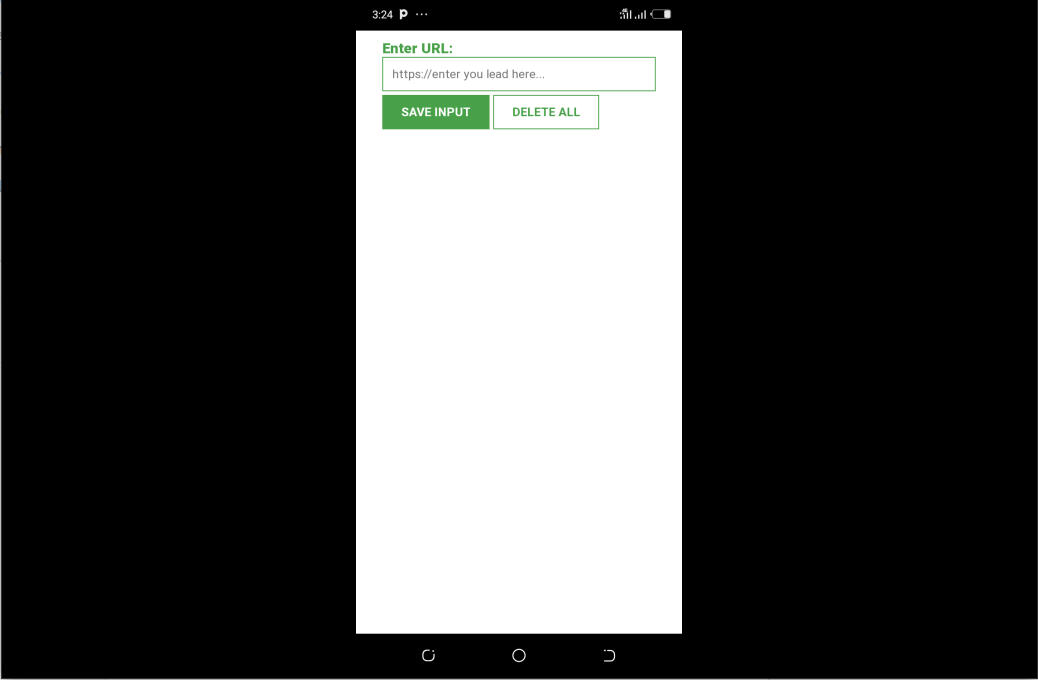
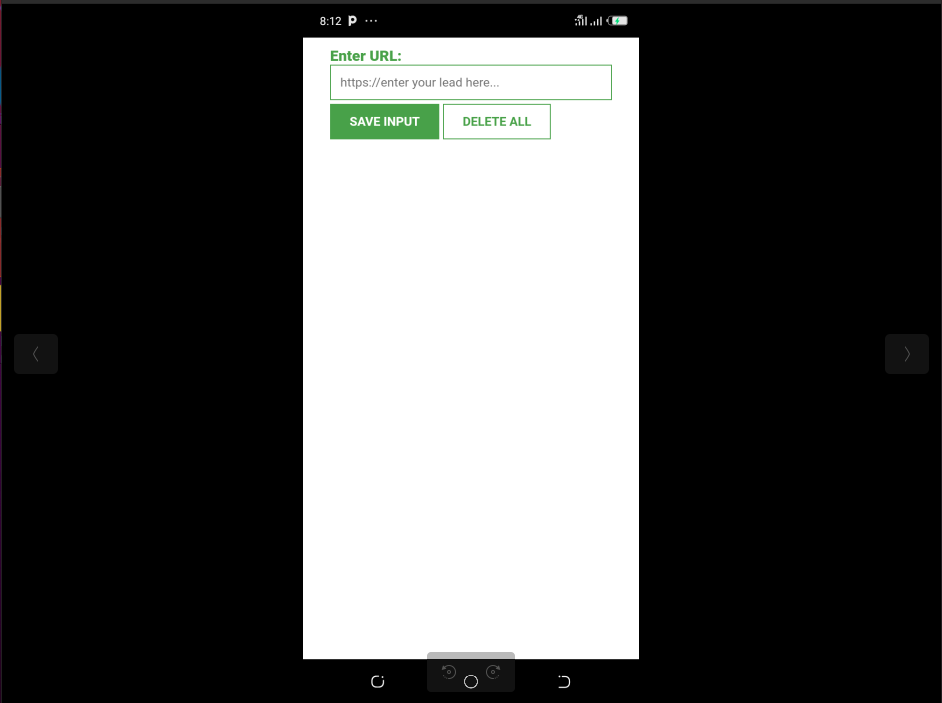
Changed Tenzies, Calculator and Etch A Sketch images

Changed region(s): [[0.0, 0.0, 1.0, 1.0]]

diff --git a/index.html b/index.html
@@ -55,23 +55,23 @@
           />
           <p class="project-title">
             <span class="code">&lt;</span>
-            Chrome Extension Mobile App
+             Mobile App
             <span class="code">&#47;&gt;</span>
           </p>
         </a>
         <a
-          href="https://marahsang.github.io/tenzies-app/"
+          href="https://marahsang.github.io/odin-lpage"
           target="_blank"
           class="project project-tile"
         >
           <img
             class="project-image"
-            src="./images/tenzies.png"
+            src="./images/odin land page.png"
             alt="project"
           />
           <p class="project-title">
             <span class="code">&lt;</span>
-            Tenzies App
+            Landing Page
             <span class="code">&#47;&gt;</span>
           </p>
         </a>
@@ -108,34 +108,34 @@
           </p>
         </a>
         <a
-          href="https://marahsang.github.io/Calculator_Odin_Project/"
+          href="https://marahsang.github.io/Odin-Grid-Project"
           target="_blank"
           class="project project-tile"
         >
           <img
             class="project-image"
-            src="./images/calculator_app.png"
+            src="./images/dashboard.png"
             alt="project"
           />
           <p class="project-title">
             <span class="code">&lt;</span>
-            Calculator
+            Dashboard
             <span class="code">&#47;&gt;</span>
           </p>
         </a>
         <a
-          href="https://marahsang.github.io/Etch-a-Sketch/"
+          href="https://marahsang.github.io/abel-tracker"
           target="_blank"
           class="project project-tile"
         >
           <img
             class="project-image"
-            src="./images/etch_a_sketch.png"
+            src="./images/leads-tracker.png"
             alt="project"
           />
           <p class="project-title">
             <span class="code">&lt;</span>
-            Etch A Sketch
+            Leads Tracker
             <span class="code">&#47;&gt;</span>
           </p>
         </a>
